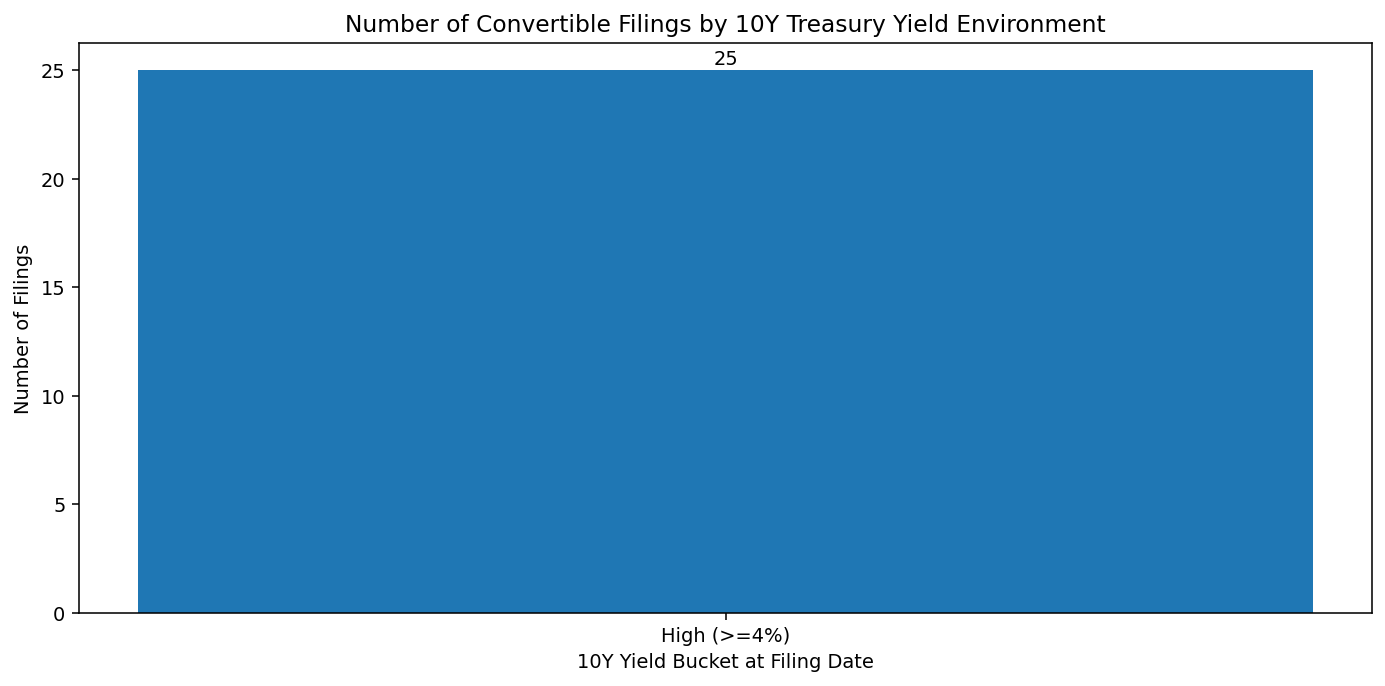
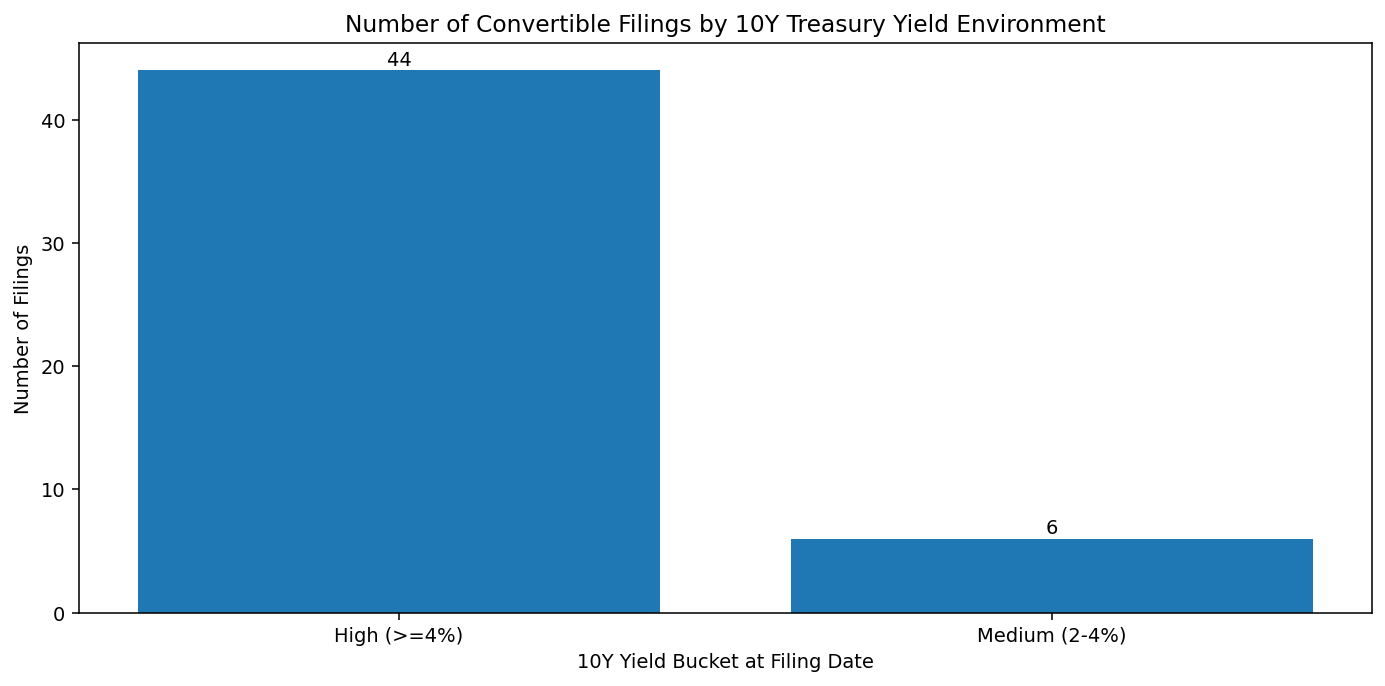
Editted the last commit because it wasn't working, now all filings should correspond with one company

diff --git a/sec_api.py b/sec_api.py
@@ -25,18 +25,29 @@ def fetch_sec_filings(limit: int = 25) -> List[Dict]:
     if not SEC_API_KEY or SEC_API_KEY.startswith("YOUR_"):
         raise ValueError("SEC_API_KEY missing in config.py")
 
+    # Get CIKs already in database
+    conn = get_connection()
+    cur = conn.cursor()
+    cur.execute("SELECT cik FROM companies")
+    existing_ciks = set(row[0] for row in cur.fetchall())
+    conn.close()
+    
+    print(f"Found {len(existing_ciks)} companies already in database.")
+
     # Read where we last left off
     offset = get_offset()
     
     url = f"{SEC_BASE_URL}?token={SEC_API_KEY}"
     
-    # Track unique CIKs and their most recent filing
+    # Track unique NEW CIKs and their most recent filing
     unique_ciks = {}
     page_size = 25
     total_fetched = 0
+    max_pages = 100  # Safety limit to avoid infinite loops
+    pages_fetched = 0
     
-    # Keep fetching until we have enough unique CIKs
-    while len(unique_ciks) < limit:
+    # Keep fetching until we have enough unique NEW CIKs
+    while len(unique_ciks) < limit and pages_fetched < max_pages:
         payload = {
             "query": (
                 'formType:"8-K" AND ('
@@ -60,7 +71,7 @@ def fetch_sec_filings(limit: int = 25) -> List[Dict]:
         
         # If no more filings available, break
         if not filings_in_page:
-            print(f"No more filings available. Got {len(unique_ciks)} unique companies.")
+            print(f"No more filings available. Got {len(unique_ciks)} new unique companies.")
             break
         
         for item in filings_in_page:
@@ -71,8 +82,8 @@ def fetch_sec_filings(limit: int = 25) -> List[Dict]:
 
             cik = item.get("cik")
             
-            # Skip if we already have this CIK (we want the most recent filing, which comes first)
-            if cik in unique_ciks:
+            # Skip if we already have this CIK in the database OR in current batch
+            if cik in existing_ciks or cik in unique_ciks:
                 continue
             
             raw_name = item.get("companyName", "") or ""
@@ -93,10 +104,11 @@ def fetch_sec_filings(limit: int = 25) -> List[Dict]:
                 break
         
         total_fetched += len(filings_in_page)
+        pages_fetched += 1
         
         # If we got fewer results than page_size, we've reached the end
         if len(filings_in_page) < page_size:
-            print(f"Reached end of available filings. Got {len(unique_ciks)} unique companies.")
+            print(f"Reached end of available filings. Got {len(unique_ciks)} new unique companies.")
             break
     
     # Save next offset
@@ -104,6 +116,8 @@ def fetch_sec_filings(limit: int = 25) -> List[Dict]:
     
     # Convert dict to list
     filings = list(unique_ciks.values())
+    
+    print(f"Returning {len(filings)} new companies.")
     
     return filings
 
